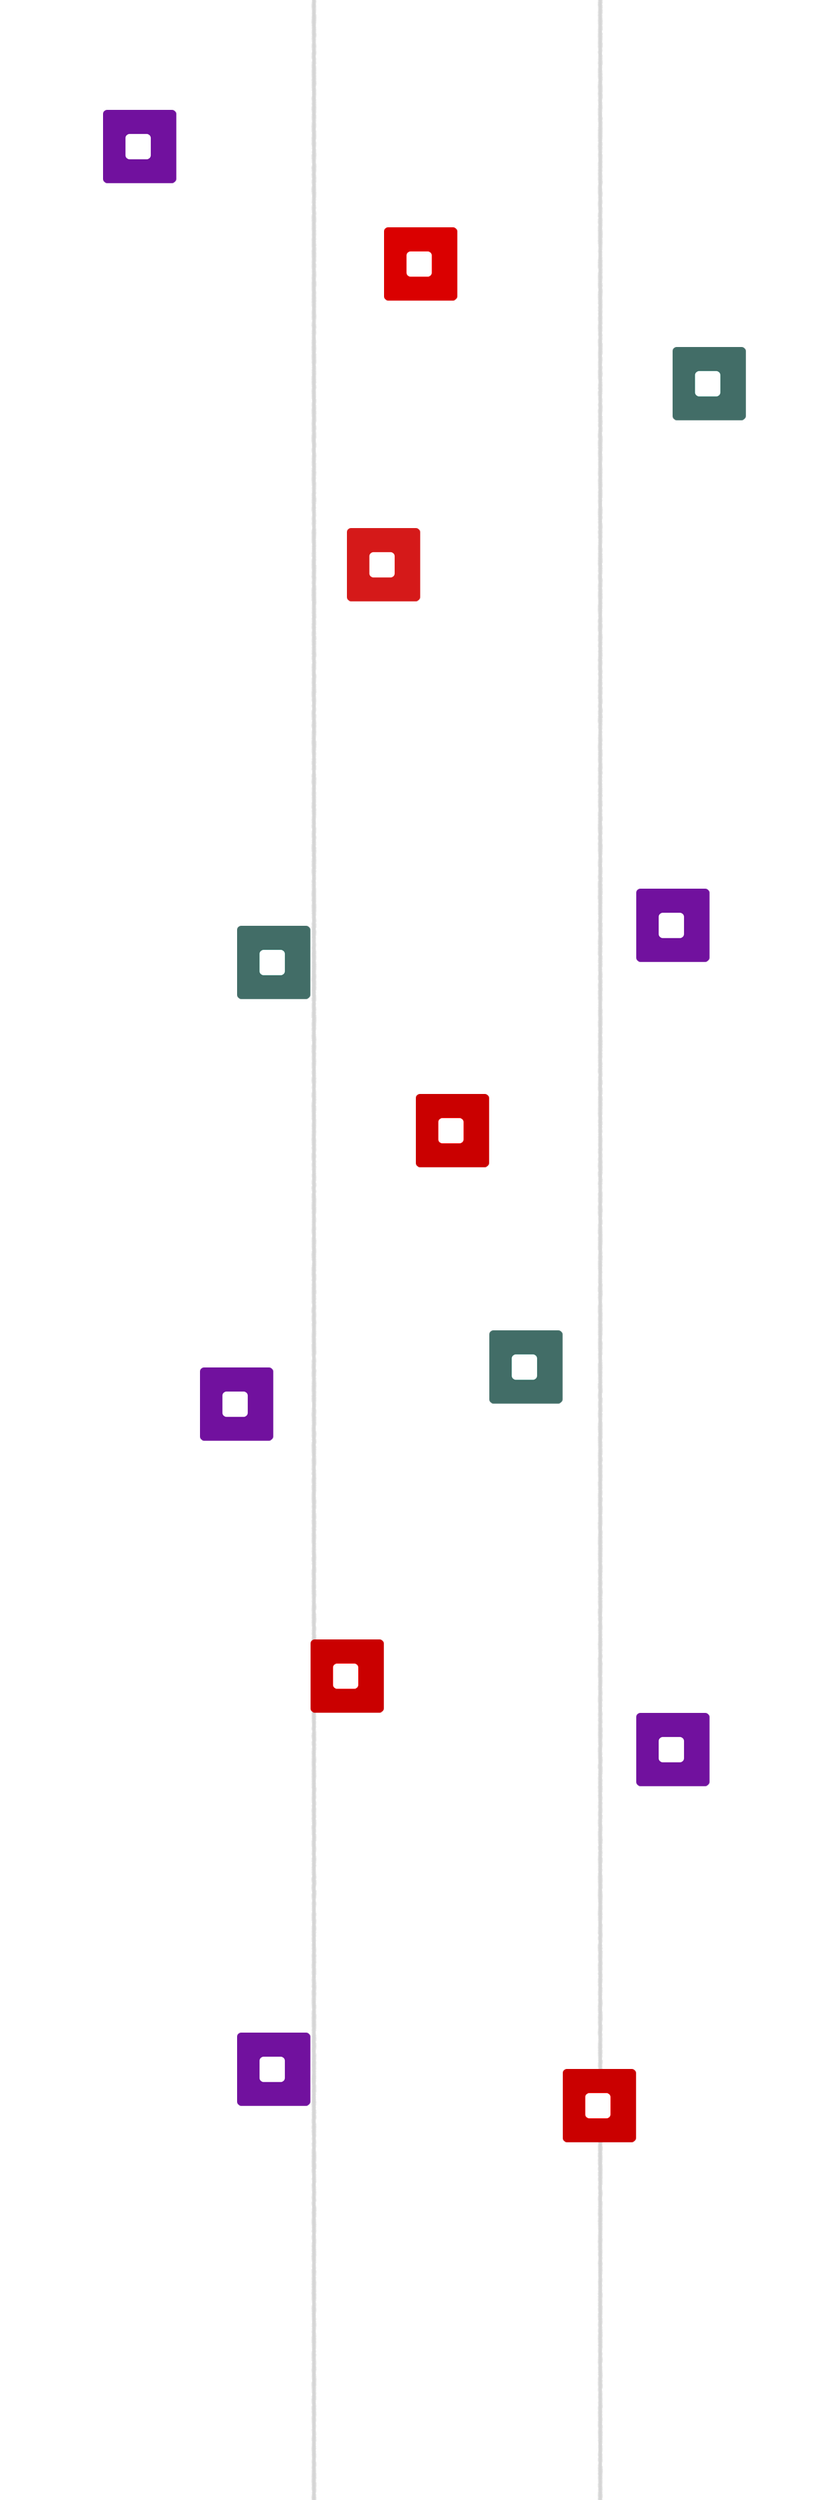
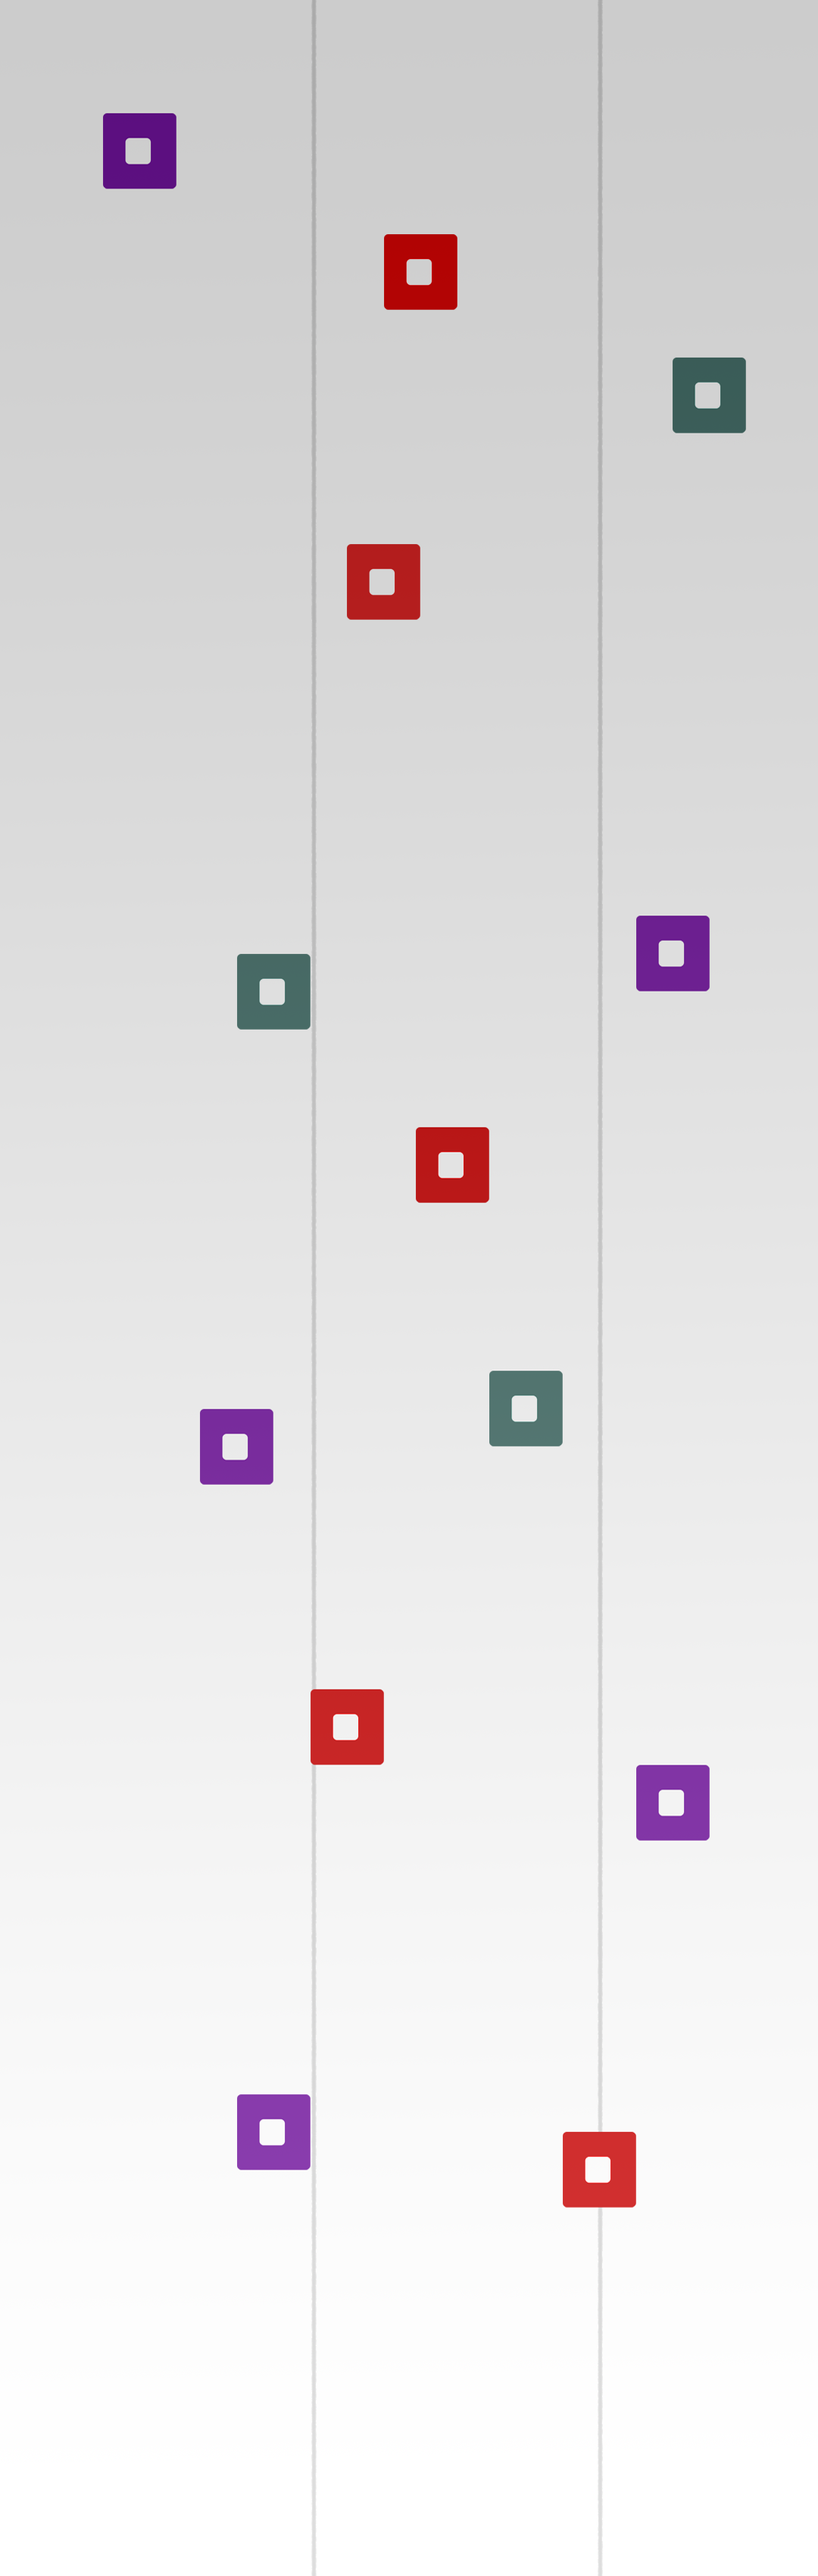
Add files via upload

diff --git a/index.html b/index.html
@@ -12,7 +12,7 @@
     <link rel="stylesheet" href="css/app.css">
     <link rel="stylesheet" href="bower_components/aos/dist/aos.css"/>
   </head>
-  <body class="rellax" style="background: url(img/background.png); background-attachment: fixed">
+  <body class="rellax" style="background: url(img/background.png);">
     <!--Aqui comienza la seccion principal-->
       <div class="hero-section">
         <div id="particles-js">
@@ -50,7 +50,7 @@
         <!--Aqui termina la segunda seccion-->
 
     <!--Aqui empieza la tercera seccion-->
-    <div class="grid-container" style="border: solid white 1px; height: 190vh;">
+    <div class="grid-container" style=" height: 190vh;">
       <div class="grid-x grid-padding-x">
       <!--Imagen Principal-->
         <div class="cell large-6 small-6" style="height: 30vh;">
@@ -180,13 +180,38 @@
     </div>
     <!--Aqui Termina la tercera seccion-->
 
+
+
+
+    <div>
+      <img src="img/div.png" style="width:10vh; height: 10vh; margin-left:10vh" class="rellax" data-rellax-speed="7">
+      <img src="img/div2.png" style="width:15vh; height: 15vh; margin-left:10vh" class="rellax" data-rellax-speed="17">
+      <img src="img/div1.png" style="width:20vh; height: 20vh; margin-left:10vh" class="rellax" data-rellax-speed="10">
+      <img src="img/div2.png" style="width:15vh; height: 15vh; margin-left:10vh" class="rellax" data-rellax-speed="6">
+      <img src="img/div.png" style="width:10vh; height: 10vh; margin-left:10vh" class="rellax" data-rellax-speed="10">
+      <img src="img/div.png" style="width:15vh; height: 15vh; margin-left:10vh" class="rellax" data-rellax-speed="4">
+      <img src="img/div2.png" style="width:20vh; height: 20vh; margin-left:10vh" class="rellax" data-rellax-speed="15">
+    </div>
+    <div>
+      <img src="img/div.png" style="width:15vh; height: 15vh; margin-left:10vh" class="rellax" data-rellax-speed="4">
+      <img src="img/div2.png" style="width:15vh; height: 15vh; margin-left:10vh" class="rellax" data-rellax-speed="2.5">
+      <img src="img/div1.png" style="width:15vh; height: 15vh; margin-left:10vh" class="rellax" data-rellax-speed="3.7">
+      <img src="img/div.png" style="width:15vh; height: 15vh; margin-left:10vh" class="rellax" data-rellax-speed="2">
+      <img src="img/div2.png" style="width:15vh; height: 15vh; margin-left:6vh" class="rellax" data-rellax-speed="3">
+      <img src="img/div1.png" style="width:15vh; height: 15vh; margin-left:10vh" class="rellax" data-rellax-speed="1">
+    </div>
+    <div>
+      <img src="img/div1.png" style="width:15vh; height: 15vh; margin-left:30vh" class="rellax" data-rellax-speed="1">
+    </div>
+
+
     <!--Aqui empieza la cuarta seccion-->
-    <div data-aos="fade">
-      <div class="grid-container" style="background: white; height: 60vh">
+    <div data-aos="">
+      <div class="grid-container-full" style="background: white; height: 70vh; margin-top:-40vh">
         <div class="grid-x grid-padding-x">
-          <div class="cell large-12 small-12" style="border: 1px white solid">
-          <t>Premios:</t>
-        </div>
+          <div class="cell large-12 small-12" style="margin-top: 10vh">
+            <t>Premios:</t>
+          </div>
           <!--MTV Awards-->
           <div class="cell large-4 small-4" style="border: 1px white solid">
           <div class="cell large-2 small-2" style=" border: 1px white solid">
@@ -234,12 +259,6 @@
       </div>
     </div>
     <!--Aquí termina la cuarta seccion-->
-
-
-
-    <img src="img/div.png" class="rellax" data-rellax-speed="7">
-
-
 
 
     <script src="js/rellax.min.js"></script>

diff --git a/css/app.css b/css/app.css
@@ -110,7 +110,7 @@
     color: white;
     border: solid 1px black;
     background: black;
-    width: 60vh;
+    width: 62vh;
     height: 30vh;
   }
   .Skills h1{
@@ -141,10 +141,10 @@
     position: relative;
     width: 1vh;
     height: 1vh;
-    -webkit-opacity: .9;
-      -moz-opacity: .9;
-      opacity: .9;
-    background-color: rgba(0, 0, 0, 0.5);
+    -webkit-opacity: 1;
+      -moz-opacity: 1;
+      opacity: 1;
+    background-color: rgba(0, 0, 0, .9);
     -webkit-transition: all 3s ease;
       -moz-transition: all 3s ease;
       -ms-transition: all 3s ease;
@@ -171,19 +171,19 @@
   }
   .im:hover .imagen{
     transition: all .5s ease;
-    background-color: rgba(0, 0, 0, .8);
+    background-color: rgba(0, 0, 0, 1);
     -webkit-opacity: .5;
     -moz-opacity: .5;
     filter: alpha(opacity=50);
-    opacity: .3;
+    opacity: .5;
   }
   .im .imagen{
     transition: all .5s ease-out;
-    background-color: rgba(0, 0, 0, .8);
-    -webkit-opacity: .9;
-    -moz-opacity: .9;
-    filter: alpha(opacity=90);
-    opacity: .9;
+    background-color: rgba(0, 0, 0, 1);
+    -webkit-opacity: 1;
+    -moz-opacity: 1;
+    filter: alpha(opacity=100);
+    opacity: 1;
   }
   .im:hover .button{
     transition: all .5s ease;
@@ -213,7 +213,7 @@
       filter: alpha(opacity=0);
     opacity: 0;
   }
-  .button{
+  .im .button{
      height: 35vh;
      width: 5vh;
      margin-left:23vh;
@@ -222,11 +222,11 @@
      opacity:.5;
      z-index: 1000;
   }
-  .button:hover{
+  .im .button:hover{
     background-color: red;
   }
-  .button p{
-    margin-left: -23.5vh;
+  .im .button p{
+    margin-left: -24.2vh;
     margin-top: -3vh;
     width: 15vh;
     color: white;
@@ -250,11 +250,7 @@
     color: black;
     font-weight: bold;
     margin-left: 13vh;
+    
   }
   /*Fin de la Cuarta Seccion*/
-  .paraxify{
-    background-attachment: fixed;
-    background-position: center center;
-    background-size: cover;
-  }
 }
